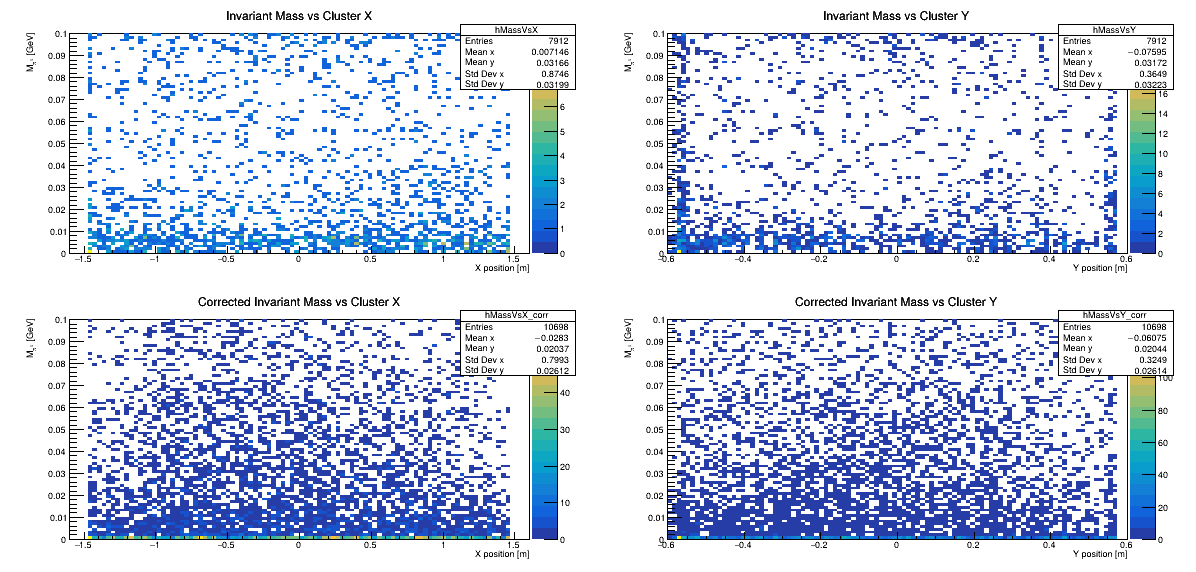
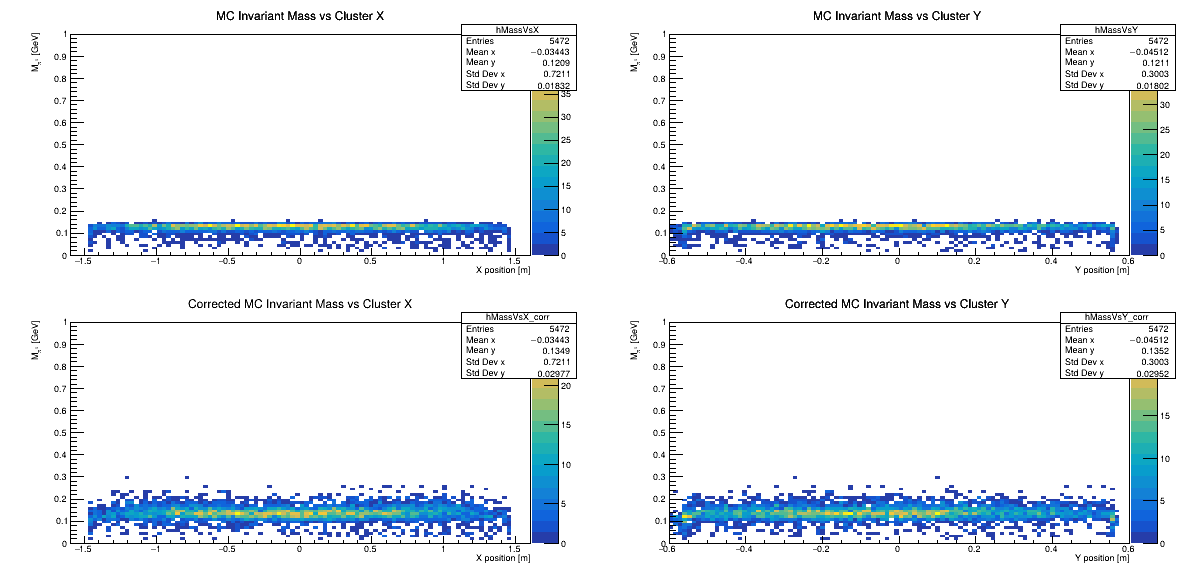
Working MC ecal pi0 calibration

diff --git a/Curr_MC_ecal_pi0calib.C b/Curr_MC_ecal_pi0calib.C
@@ -429,7 +429,7 @@ void LIGHTbest_MC_pair(
 
     if (nclus < 2) return; // need at least 2 clusters
 
-    // Find top 2 by energy
+    // Find top-2 by energy
     int imax1 = -1, imax2 = -1;
     double e1 = -1, e2 = -1;
 
@@ -445,11 +445,12 @@ void LIGHTbest_MC_pair(
     if (imax1 >= 0 && imax2 >= 0) {
         best_icl = imax1;
         best_jcl = imax2;
-        best_mass = e1 + e2; // placeholder mass is computed later
+        best_mass = e1 + e2; // placeholder: real mass is computed later
     }
 }
 
 
+// void My_Top2clus_ecal_pi0calib(int run_start, int run_end) {
 void MC_ecal_pi0calib() {
     //Moved to global 
     // const Double_t z_calo = 6; // position of calorimeter from the target in m
@@ -458,8 +459,8 @@ void MC_ecal_pi0calib() {
     // const Double_t vertex_z = z_target - z_origin;  // position of vertex, where the pi0 is created, right in the middle of the target
     // const double pi0_mass_pdg = 0.1349766;  // PDG pi0 mass in GeV
 
-    const int nbclusmax=100;    // max number of clusters
-    const int sizemax=1000;     // max size of the cluster (how many blocks in each cluster)
+    const int nbclusmax=100;    // maximum number of clusters
+    const int sizemax=1000;     // maximum size of the cluster (how many blocks in each cluster)
 
     TChain *ch = new TChain("T");
 
@@ -545,19 +546,19 @@ void MC_ecal_pi0calib() {
     
     TH2D *hMassVsX = new TH2D("hMassVsX",
     "MC Invariant Mass vs Cluster X;X position [m];M_{#pi^{0}} [GeV]",
-    100, -1.6, 1.6, 80, 0, 1.0);
+    100, -1.6, 1.6, 80, 0, .10);
 
     TH2D *hMassVsY = new TH2D("hMassVsY",
     "MC Invariant Mass vs Cluster Y;Y position [m];M_{#pi^{0}} [GeV]",
-    100, -0.6, 0.6, 80, 0,1.0);
+    100, -0.6, 0.6, 80, 0, .1);
     
     TH2D *hMassVsX_corr = new TH2D("hMassVsX_corr",
     "Corrected MC Invariant Mass vs Cluster X;X position [m];M_{#pi^{0}} [GeV]",
-    100, -1.6, 1.6, 80, 0, 1.0);
+    100, -1.6, 1.6, 80, 0, .10);
 
     TH2D *hMassVsY_corr = new TH2D("hMassVsY_corr",
     "Corrected MC Invariant Mass vs Cluster Y;Y position [m];M_{#pi^{0}} [GeV]",
-    100, -0.6, 0.6, 80, 0,1.0);
+    100, -0.6, 0.6, 80, 0, .1);
 
 
 
@@ -588,8 +589,7 @@ void MC_ecal_pi0calib() {
     std::set<int> blockIDs;
     std::map<int, int> blockID_to_row, blockID_to_col;
 
-    // for (Long64_t i = 0; i < nEvents/100; ++i) {
-    for (Long64_t i = 0; i < nEvents; ++i) {
+    for (Long64_t i = 0; i < nEvents/100; ++i) {
 
         cout << "Checking event : " << i << endl;
 
@@ -1114,8 +1114,7 @@ void MC_ecal_pi0calib() {
     TCanvas *cDt = new TCanvas("cDt","Photon Differences",0,0,1600,900);
     cDt->Divide(2,2);
     cDt->cd(1); 
-    // gPad->SetLogy(); 
-    hBestDt->Draw();
+    // gPad->SetLogy(); hBestDt->Draw();
     cDt->cd(2);
     hBestDx->Draw();
     cDt->cd(3); 

diff --git a/ecal_pi0calib.C b/ecal_pi0calib.C
@@ -165,6 +165,10 @@ void ecal_pi0calib(int run_start, int run_end) {
     TH1F *h_Epi0_corr = new TH1F("h_Epi0_corr",
     "Reconstructed Pi^{0} Energy;E_{#pi^{0}} [GeV];Events", 140, 0, 14);
 
+    TH1F *hClusTime = new TH1F("hClusTime",
+    "Photon Cluster Arrival Times; Time [ns];Counts", 200, 0, 200);
+
+
 
     Long64_t nEvents = ch->GetEntries();
     cout << "Number of events: " << nEvents << endl;
@@ -245,10 +249,14 @@ void ecal_pi0calib(int run_start, int run_end) {
 
     for (Long64_t i = 0; i < nEvents; i++) {
         ch->GetEntry(i);
+        for (int icl = 0; icl < nclus; icl++) {
+            hClusTime->Fill(clus_a_time[icl]);
+        }
         if (i % 10000 == 0) {
             cout << "Processing event (correction) " << i << " / " << nEvents << "\r";
             cout.flush();
         }
+
         // Check that there are at least two clusters
         if (nclus < 2) continue;
         pass_clus++;
@@ -423,6 +431,10 @@ void ecal_pi0calib(int run_start, int run_end) {
  
     for (Long64_t i = 0; i < nEvents; i++) {
         ch->GetEntry(i);
+        for (int icl = 0; icl < nclus; icl++) {
+            hClusTime->Fill(clus_a_time[icl]);
+        }
+
         if (i % 10000 == 0) {
             cout << "Processing event (correction) " << i << " / " << nEvents << "\r";
             cout.flush();
@@ -519,6 +531,10 @@ void ecal_pi0calib(int run_start, int run_end) {
 
     for (Long64_t i = 0; i < nEvents; i++) {
         ch->GetEntry(i);
+        for (int icl = 0; icl < nclus; icl++) {
+            hClusTime->Fill(clus_a_time[icl]);
+        }
+
         cout << "Processing event " << i << "\r";
         if (nclus < 2) continue;
         pass_clus_corr++;
@@ -676,6 +692,12 @@ void ecal_pi0calib(int run_start, int run_end) {
     legE->Draw();
 
     cE->SaveAs(Form("plots/ecal_pi0_energy_%i_%i.png",run_start,run_end));
+
+
+    TCanvas *cTime = new TCanvas("cTime","Cluster Times",800,600);
+    hClusTime->Draw();
+    cTime->SaveAs(Form("plots/ecal_cluster_times_%i_%i.png", run_start, run_end));
+
 
     for(int val : UncalibratedCh)cout<<val<<", ";
     cout<<endl;
